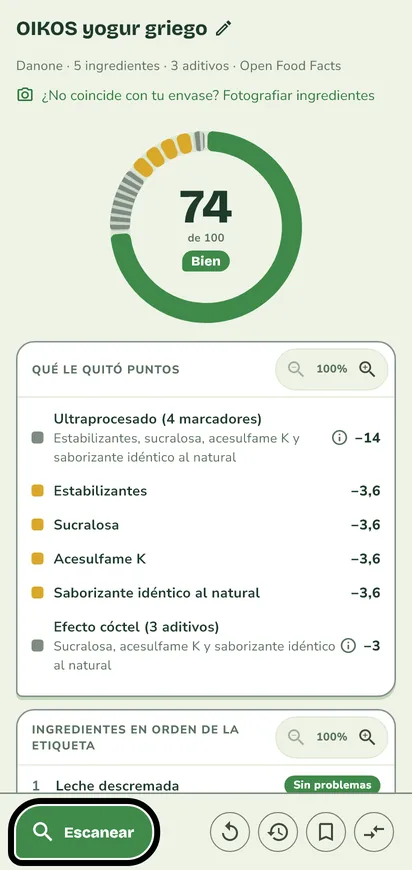
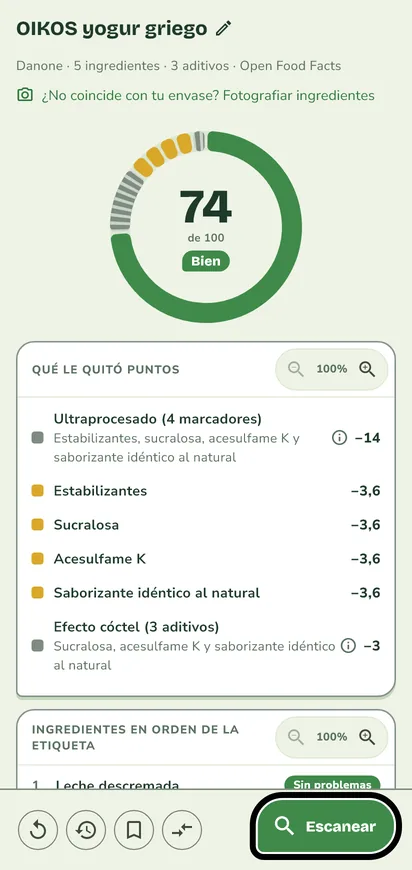
fix: «Escanear» en el mismo lugar también en Resultado (1.0.13)

Changed region(s): [[0.0, 0.9, 1.0, 1.0]]

diff --git a/novedades.html b/novedades.html
@@ -184,6 +184,17 @@
     <p class="lead">Brote crece con lo que nos cuentan quienes la usan. Aquí va lo que cambia en cada versión, contado en simple.</p>
     <p>Las versiones llegan primero a una prueba interna y después a los testers. <a href="probar.html">¿Quieres probarla tú también?</a></p>
     <ol class="rel">
+      <li id="v1.0.13">
+        <header>
+          <h2>«Escanear» siempre en el mismo lugar</h2>
+          <span class="ver">Versión 1.0.13</span>
+          <time>21 de noviembre</time>
+          <span class="stage">En prueba interna</span>
+        </header>
+        <ul>
+          <li>En el resultado de un producto, el botón «Escanear» ahora queda abajo a la derecha, en el mismo lugar que en el resto de las pantallas. Las acciones del producto (volver a escanear, historial, favoritos) quedan a su izquierda.</li>
+        </ul>
+      </li>
       <li id="v1.0.12">
         <header>
           <h2>Escanear desde cualquier pantalla</h2>

diff --git a/ayuda/result.html b/ayuda/result.html
@@ -83,7 +83,8 @@
   <li>Toca el lápiz para cambiar el nombre o la marca.</li>
   <li>Si el producto no coincide con tu envase, fotografía sus ingredientes.</li>
   <li>Un ingrediente «No reconocido» se puede corregir, separar o eliminar.</li>
-  <li>Abajo: el botón «Escanear» para el siguiente producto, volver a escanear este, ir al historial o guardarlo en favoritos.</li>
+  <li>Abajo a la derecha, como en todas las pantallas, «Escanear» abre el escáner para el siguiente producto.</li>
+  <li>En la barra de abajo, a la izquierda: volver a escanear este, ir al historial o guardarlo en favoritos.</li>
 </ul>
 <h2>Bueno saber</h2>
 <ul>
